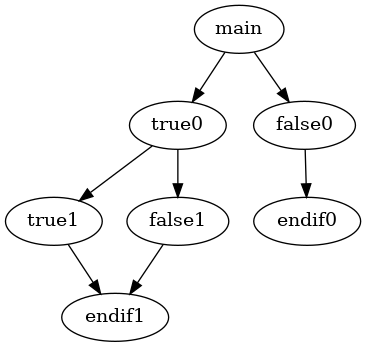
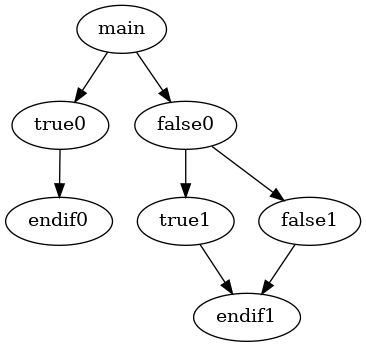
cfg print and un test de if regle

diff --git a/compiler/IR.h b/compiler/IR.h
@@ -128,13 +128,29 @@ class CFG {
 	void gen_asm_epilogue(ostream& o);
 
 	void affiche_cfg(ostream &o) {
-		cout << "________________________________________" << endl;
+		o << "digraph G {\n";
+		o << "    node [shape=ellipse];\n\n";
 		for (auto bb : bbs) {
-			string t = bb->exit_true != nullptr ? bb->exit_true->label : "nullptr";
-			string f = bb->exit_false != nullptr ? bb->exit_false->label : "nullptr";
-			o << bb->label << " : " << t << ", " << f << "\n";
+			string label = bb->label;
+			if (!label.empty() && label[0] == '.') {
+				label = label.substr(1); // Remove the leading '.'
+			}
+			if (bb->exit_true != nullptr) {
+				string exit_true_label = bb->exit_true->label;
+				if (!exit_true_label.empty() && exit_true_label[0] == '.') {
+					exit_true_label = exit_true_label.substr(1); // Remove the leading '.'
+				}
+				o << "    " << label << " -> " << exit_true_label << ";\n";
+			}
+			if (bb->exit_false != nullptr) {
+				string exit_false_label = bb->exit_false->label;
+				if (!exit_false_label.empty() && exit_false_label[0] == '.') {
+					exit_false_label = exit_false_label.substr(1); // Remove the leading '.'
+				}
+				o << "    " << label << " -> " << exit_false_label << ";\n";
+			}
 		}
-		cout << "________________________________________" << endl;
+		o << "}\n";
 	}
 
 	BasicBlock* current_bb; /**< The current basic block being built */

diff --git a/compiler/IR.cpp b/compiler/IR.cpp
@@ -33,8 +33,10 @@ void BasicBlock::gen_asm(ostream &o) {
         o << "    jmp " + exit_true->exit_true->label + "\n";
         o << exit_false->label << ":\n";
         exit_false->gen_asm(o);
-        o << exit_true->exit_true->label << ":\n";
-        exit_true->exit_true->gen_asm(o);
+        if(exit_false->label != exit_true->exit_true->label) {
+            o << exit_true->exit_true->label << ":\n";
+            exit_true->exit_true->gen_asm(o);
+        }
     }
 
 }

diff --git a/compiler/main.cpp b/compiler/main.cpp
@@ -96,7 +96,8 @@ int main(int argn, const char **argv)
   irv.setVariables(vv.getVariables());
   irv.visit(tree);
   CFG* cfg = irv.getCFG();
-  cfg->affiche_cfg(cout);
+  ofstream fichier("fichier.dot");
+  cfg->affiche_cfg(fichier);
   cfg->gen_asm(cout);
 
   return 0;

diff --git a/compiler/IRVisitor.cpp b/compiler/IRVisitor.cpp
@@ -363,6 +363,7 @@ antlrcpp::Any IRVisitor::visitExprCompEqual(ifccParser::ExprCompEqualContext *ct
         _cfg->current_bb = test_false_bb;
         this->visit(ctx->block(1));
     }
+    _cfg->current_bb = test_endif_bb;
 
     
     return 0;

diff --git a/testfiles/TestsOK/Valid/IfElse/147_if_qui_se_suivent.c b/testfiles/TestsOK/Valid/IfElse/147_if_qui_se_suivent.c
@@ -13,4 +13,5 @@ int main() {
     else {
         a = 5;
     }
+    return a;
 }
